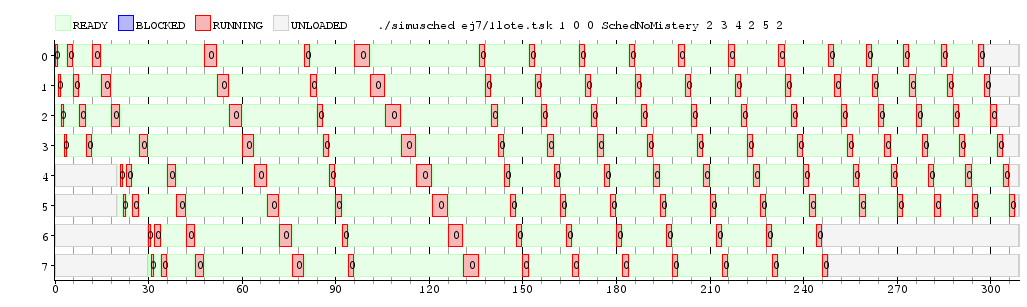
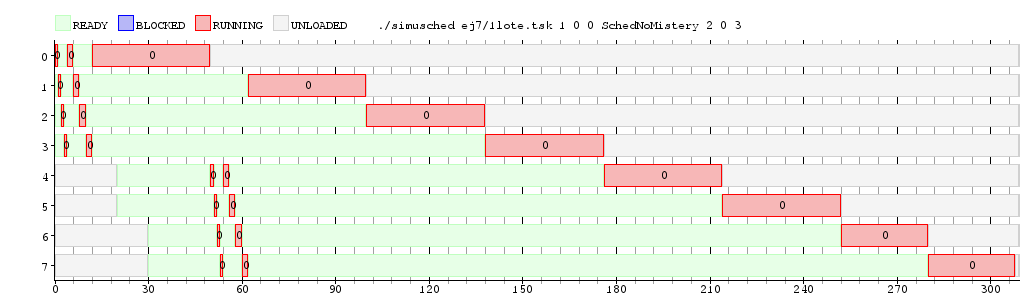
mejorando mistery

diff --git a/sched_no_mistery.cpp b/sched_no_mistery.cpp
@@ -15,7 +15,7 @@ SchedNoMistery::SchedNoMistery(vector<int> argn) {
 	//cargo los valores de los quantums pasados por parámetro
 	//al vector quantumPorCola
 	for(unsigned int i = 0; i < argn.size(); i++){
-			quantumPorCola[i] = (argn[i] == 0)? 1 : argn[i]; //si le pasan parámetro 0 le pongo 1 como quantum a esa cola
+			quantumPorCola[i] = (argn[i] == 0)? -1 : argn[i]; //si le pasan parámetro 0 le pongo 1 como quantum a esa cola
 		}
 	//~ quantumPorCola[cantQuantums] = 1;			//la ultima cola tiene quantum 1 
 	colaActual = 0;			//empieza a ehecutar las tareas de la cola 0
@@ -68,7 +68,7 @@ int SchedNoMistery::tick(int cpu, const enum Motivo m) {
 				}
     		}else{
 			//no era la IDLE_TASK, se resta uno al quantum restante
-				
+				if(quantumRestante < 0) nextPid = current_pid(cpu);		//me llegó un parámetro con quantum 0, sigue esa tarea hasta que temrina
        			quantumRestante--;
        			if (quantumRestante == 0){
 				//se quedó sin tiempo
